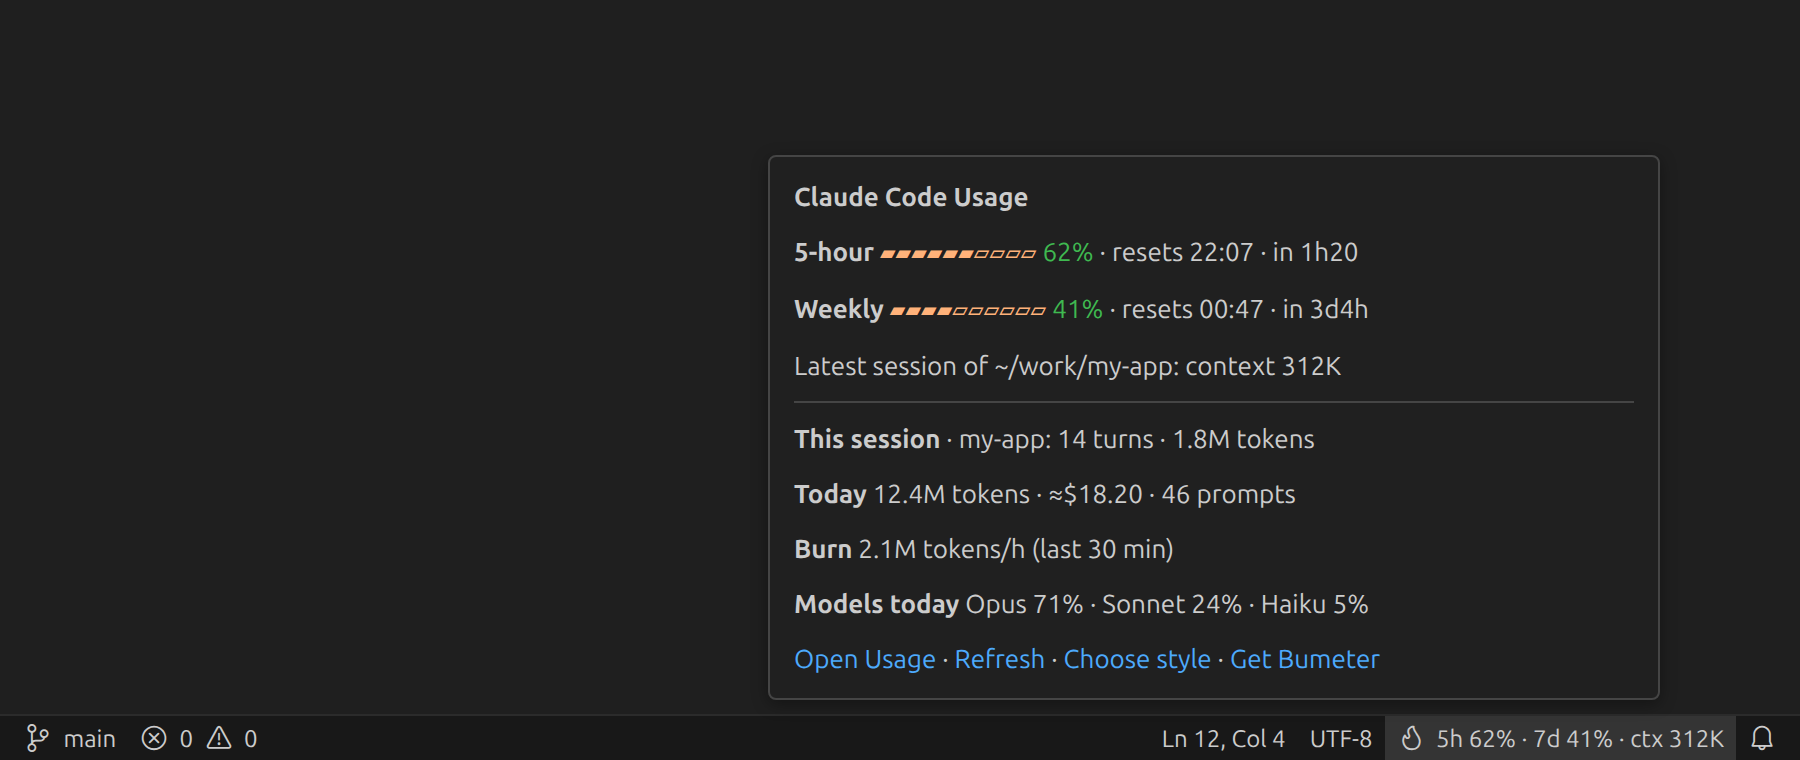
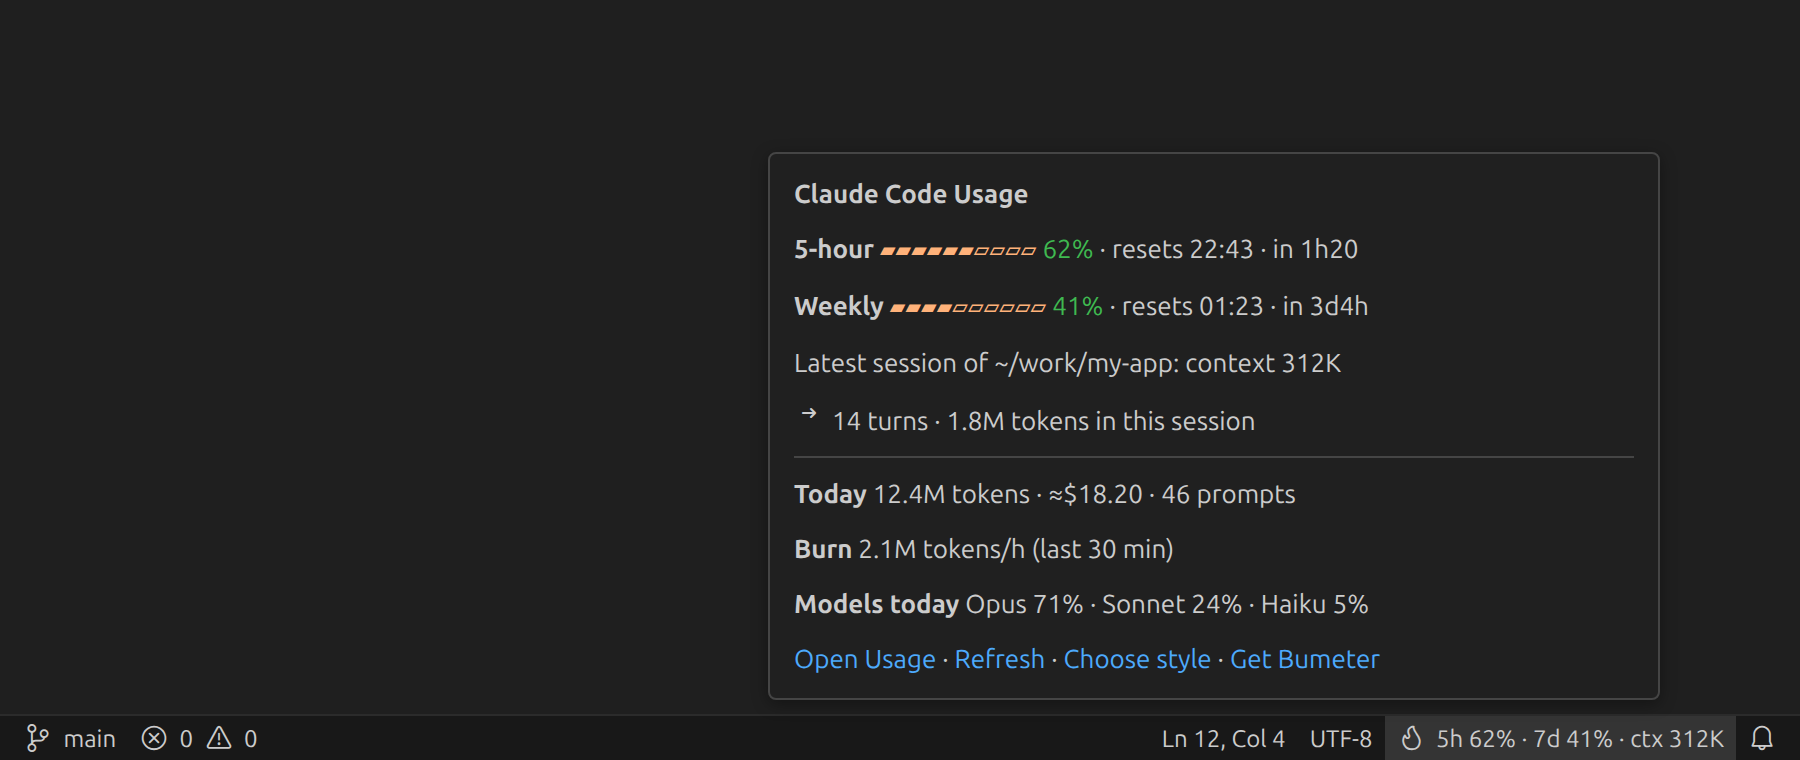
0.3.1: clearer Usage view and tooltip, lighter background reads
Weekly reset shows its day, quota bars line up, the session line follows the
kit's context line and only while current, small changes are not red, burn rate
labelled now, daily chart marks today with peak and average, narrow slices show
only their share; with the view closed, reads at most every 15 s and none while
full Bumeter hides the item.

diff --git a/webview/view.ts b/webview/view.ts
@@ -3,13 +3,19 @@
 import { fmtClock, fmtCountdown, fmtTokens } from '@bumeter/vscode-kit/format';
 import type { Forecast, Window as QuotaWindow } from '@bumeter/vscode-kit/status';
 import type { FromPage, PageState } from '../src/panel';
-import { chartDays, compare, RANGES, shortProject } from '../src/usage';
+import { chartDays, compare, isActive, RANGES, shortProject } from '../src/usage';
 import type { Part, Range, UsageData } from '../src/usage';
 import { h } from './dom';
-import { s } from './strings';
+import { s, weekday } from './strings';
 
 const level = (pct: number) => (pct >= 90 ? 'err' : pct >= 70 ? 'warn' : 'ok');
 const clamp = (pct: number) => `${Math.min(100, Math.max(0, pct))}%`;
+/** A clock time, with the weekday when it is not within the next 20 hours. */
+const when = (secs: number, nowSecs: number) => (secs - nowSecs > 20 * 3600 ? `${weekday(secs)} ${fmtClock(secs)}` : fmtClock(secs));
+/** A change smaller than this is drawn plain, not red or green. */
+const NOTABLE = 0.2;
+/** A part this narrow shows only its percentage; the name is in its title. */
+const NARROW = 15;
 
 function fill(pct: number): HTMLElement {
   const f = h('div', { class: 'fill' });
@@ -48,10 +54,11 @@ export function mountUsage(root: HTMLElement, o: { post(m: FromPage): void; now?
         h('span', { class: 'qname' }, name),
         h('div', { class: 'track' }, fill(pct)),
         h('b', { class: 'qpct' }, `${pct}%`),
-        h('span', { class: 'muted' }, s('resets', { time: fmtClock(w.resets_at), left: fmtCountdown(w.resets_at, now() / 1000) })),
-        f?.at_risk && f.hits_at != null ? h('span', { class: 'out' }, s('out', { time: fmtClock(f.hits_at) })) : null);
+        h('span', { class: 'muted' }, s('resets', { time: when(w.resets_at, now() / 1000), left: fmtCountdown(w.resets_at, now() / 1000) })),
+        f?.at_risk && f.hits_at != null ? h('span', { class: 'out' }, s('out', { time: when(f.hits_at, now() / 1000) })) : null);
     };
-    for (const r of [row(s('fiveHour'), l.five_hour, l.forecast_five_hour), row(s('weekly'), l.seven_day, l.forecast_seven_day)]) if (r) box.append(r);
+    // One grid for both rows, so their bars line up whatever the texts beside them.
+    box.append(h('div', { class: 'qgrid' }, [row(s('fiveHour'), l.five_hour, l.forecast_five_hour), row(s('weekly'), l.seven_day, l.forecast_seven_day)]));
     return box;
   }
 
@@ -61,7 +68,7 @@ export function mountUsage(root: HTMLElement, o: { post(m: FromPage): void; now?
   function cards(d: UsageData): HTMLElement {
     const c = d.days ? compare(d.days, d.range, now()) : null;
     const change = c?.change == null || Math.round(c.change * 100) === 0 ? null
-      : h('span', { class: c.change > 0 ? 'up' : 'down' }, s(c.change > 0 ? 'up' : 'down', { pct: Math.abs(Math.round(c.change * 100)) }));
+      : h('span', { class: Math.abs(c.change) < NOTABLE ? '' : c.change > 0 ? 'up' : 'down' }, s(c.change > 0 ? 'up' : 'down', { pct: Math.abs(Math.round(c.change * 100)) }));
     return h('section', { class: 'stats' },
       stat(s('tokens'), c ? fmtTokens(c.cur.tokens) : '—', change, 'flame'),
       stat(s('cost'), c ? `≈$${c.cur.cost.toFixed(2)}` : '—', s('apiPricing')),
@@ -70,8 +77,9 @@ export function mountUsage(root: HTMLElement, o: { post(m: FromPage): void; now?
   }
 
   function session(d: UsageData, project: string | null): HTMLElement {
-    const box = panel(project ? s('session', { project: shortProject(project) }) : s('sessionNone'));
     const latest = d.now?.latest;
+    const title = isActive(d) || !latest ? 'session' : 'sessionLatest';
+    const box = panel(project ? s(title, { project: shortProject(project) }) : s('sessionNone'));
     if (!latest || !d.now) {
       box.append(h('p', { class: 'muted' }, s('noSession')));
       return box;
@@ -87,23 +95,24 @@ export function mountUsage(root: HTMLElement, o: { post(m: FromPage): void; now?
   }
 
   function daily(d: UsageData): HTMLElement {
-    const box = panel(s('daily'));
     const days = d.days ? chartDays(d.days, d.range, now()) : null;
     const max = days ? Math.max(0, ...days.map((x) => x.tokens)) : 0;
+    const box = panel(s('daily'), days && max ? s('peak', { peak: fmtTokens(max), avg: fmtTokens(days.reduce((a, x) => a + x.tokens, 0) / days.length) }) : undefined);
     if (!days || !max) {
       box.append(h('p', { class: 'muted' }, d.days ? s('noActivity') : '—'));
       return box;
     }
+    const today = days[days.length - 1].day;
     box.append(h('div', { class: 'chart' }, days.map((x) => {
-      const col = h('div', { class: x.tokens === max ? 'col max' : 'col', title: s('dayTip', { day: x.day, tokens: fmtTokens(x.tokens), prompts: x.prompts }) });
-      col.style.height = x.tokens === max ? '100%' : `${Math.max(2, (x.tokens / max) * 100)}%`;
+      const col = h('div', { class: x.day === today ? 'col today' : 'col', title: s('dayTip', { day: x.day, tokens: fmtTokens(x.tokens), prompts: x.prompts }) });
+      col.style.height = `${Math.max(2, (x.tokens / max) * 100)}%`;
       return h('div', { class: 'slot' }, h('div', { class: 'bar' }, col), h('span', { class: 'dlabel' }, x.day.slice(8)));
     })));
     return box;
   }
 
   const stack = (parts: Part[]) => h('div', { class: 'stack' }, parts.map((p, i) => {
-    const seg = h('div', { class: `part p${Math.min(i, 3)}`, title: `${p.label} ${p.pct}%` }, `${p.label} ${p.pct}%`);
+    const seg = h('div', { class: `part p${Math.min(i, 3)}`, title: `${p.label} ${p.pct}%` }, p.pct < NARROW ? `${p.pct}%` : `${p.label} ${p.pct}%`);
     seg.style.flexGrow = String(Math.max(p.pct, 1));
     return seg;
   }));

diff --git a/webview/strings.ts b/webview/strings.ts
@@ -5,11 +5,11 @@ const EN = {
   waiting: 'Tracking is on. The 5h/7d numbers appear after Claude Code\'s next reply.',
   setupText: 'Set up tracking to see your 5-hour and weekly quota.', setup: 'Set up',
   fiveHour: '5-hour', weekly: 'Weekly', resets: 'resets {time} · in {left}', out: 'out ≈{time}',
-  tokens: 'Tokens', cost: 'Est. cost', apiPricing: 'API pricing', prompts: 'Prompts', sessions: '{n} sessions', burn: 'Burn rate', last30: 'last 30 min',
-  up: '{pct}% more than the previous period', down: '{pct}% less than the previous period',
-  session: 'This session · {project}', sessionNone: 'This session', noSession: 'No Claude Code session in this workspace yet.',
+  tokens: 'Tokens', cost: 'Est. cost', apiPricing: 'API pricing', prompts: 'Prompts', sessions: '{n} sessions', burn: 'Burn rate now', last30: 'last 30 min, any range',
+  up: '+{pct}% vs previous period', down: '−{pct}% vs previous period',
+  session: 'This session · {project}', sessionLatest: 'Latest session · {project}', sessionNone: 'This session', noSession: 'No Claude Code session in this workspace yet.',
   context: 'Context', sessionLine: '{tokens} tokens · {turns} turns', lastReply: 'last reply {ago}',
-  daily: 'Daily', dayTip: '{day}: {tokens} tokens · {prompts} prompts', noActivity: 'No Claude Code activity in this range yet.',
+  daily: 'Daily', peak: 'peak {peak} · average {avg}', dayTip: '{day}: {tokens} tokens · {prompts} prompts', noActivity: 'No Claude Code activity in this range yet.',
   where: 'Where the quota went', byModel: 'By model', byProject: 'By project', capped: 'From the latest 1000 sessions.',
   moreText: 'Want the prompts, skills and files behind it?', getFull: 'Get Bumeter',
 };
@@ -20,11 +20,11 @@ const VI: Record<Key, string> = {
   waiting: 'Đã bật theo dõi. Số 5h/7d hiện sau câu trả lời tiếp theo của Claude Code.',
   setupText: 'Bật theo dõi để xem hạn mức 5 giờ và hằng tuần.', setup: 'Bật',
   fiveHour: '5 giờ', weekly: 'Tuần', resets: 'reset {time} · còn {left}', out: 'cạn ≈{time}',
-  tokens: 'Token', cost: 'Chi phí ước tính', apiPricing: 'theo giá API', prompts: 'Prompt', sessions: '{n} phiên', burn: 'Tốc độ', last30: '30 phút qua',
-  up: 'nhiều hơn kỳ trước {pct}%', down: 'ít hơn kỳ trước {pct}%',
-  session: 'Phiên này · {project}', sessionNone: 'Phiên này', noSession: 'Chưa có phiên Claude Code nào trong workspace này.',
+  tokens: 'Token', cost: 'Chi phí ước tính', apiPricing: 'theo giá API', prompts: 'Prompt', sessions: '{n} phiên', burn: 'Tốc độ hiện tại', last30: '30 phút qua, mọi khoảng',
+  up: '+{pct}% so với kỳ trước', down: '−{pct}% so với kỳ trước',
+  session: 'Phiên này · {project}', sessionLatest: 'Phiên gần nhất · {project}', sessionNone: 'Phiên này', noSession: 'Chưa có phiên Claude Code nào trong workspace này.',
   context: 'Context', sessionLine: '{tokens} token · {turns} lượt', lastReply: 'trả lời cuối {ago}',
-  daily: 'Theo ngày', dayTip: '{day}: {tokens} token · {prompts} prompt', noActivity: 'Chưa có hoạt động Claude Code trong khoảng này.',
+  daily: 'Theo ngày', peak: 'cao nhất {peak} · trung bình {avg}', dayTip: '{day}: {tokens} token · {prompts} prompt', noActivity: 'Chưa có hoạt động Claude Code trong khoảng này.',
   where: 'Hạn mức đi đâu', byModel: 'Theo model', byProject: 'Theo dự án', capped: 'Tính trên 1000 phiên gần nhất.',
   moreText: 'Muốn xem prompt, skill và file đứng sau những con số này?', getFull: 'Cài Bumeter',
 };
@@ -33,5 +33,7 @@ let lang: 'en' | 'vi' = 'en';
 export const setLang = (l: string): void => {
   lang = l.toLowerCase().startsWith('vi') ? 'vi' : 'en';
 };
+/** Short weekday of a Unix time, in the page's language. */
+export const weekday = (secs: number): string => new Date(secs * 1000).toLocaleDateString(lang === 'vi' ? 'vi-VN' : 'en-US', { weekday: 'short' });
 export const s = (k: Key, p: Record<string, string | number> = {}): string =>
   (lang === 'vi' ? VI : EN)[k].replace(/\{(\w+)\}/g, (_, n: string) => String(p[n] ?? ''));

diff --git a/test/usage-data.test.ts b/test/usage-data.test.ts
@@ -1,5 +1,5 @@
 import { describe, expect, it } from 'vitest';
-import { burnRate, chartDays, compare, dayKey, isRange, lastDays, modelParts, projectParts, rangeStart, shortProject, sum, fetchUsage, tooltipExtra } from '../src/usage';
+import { burnRate, chartDays, compare, dayKey, isRange, lastDays, modelParts, projectParts, rangeStart, shortProject, sum, fetchUsage, isActive, tooltipExtra } from '../src/usage';
 import type { DayStat, PromptRow, UsageData } from '../src/usage';
 
 // Noon local time, so day boundaries do not depend on the machine's zone.
@@ -136,18 +136,25 @@ describe('tooltipExtra', () => {
     days: [day(0, 12_400_000, 46, 18.2)], burn: 2_100_000, modelsToday: [{ key: 'opus', label: 'Opus', pct: 71, tokens: 71 }, { key: 'sonnet', label: 'Sonnet', pct: 29, tokens: 29 }],
     models: null, projects: null };
 
-  it('session, today, burn and models after a rule', () => {
+  it('the session under the kit context line, then today, burn and models after a rule', () => {
     expect(tooltipExtra(base, 'en', '/w/my-app')).toBe([
+      '$(arrow-small-right) 14 turns · 1.8M tokens in this session',
       '---',
-      '**This session** · my-app: 14 turns · 1.8M tokens',
       '**Today** 12.4M tokens · ≈$18.20 · 46 prompts',
       '**Burn** 2.1M tokens/h (last 30 min)',
       '**Models today** Opus 71% · Sonnet 29%',
     ].join('\n\n'));
   });
 
-  it('escapes a project name for the HTML tooltip', () => {
-    expect(tooltipExtra(base, 'en', '/w/a<b')).toContain('**This session** · a&lt;b: 14 turns · 1.8M tokens');
+  it('escapes a model name for the HTML tooltip', () => {
+    expect(tooltipExtra({ ...base, modelsToday: [{ key: 'x', label: 'a<b', pct: 100, tokens: 1 }] }, 'en', '/w/my-app')).toContain('a&lt;b 100%');
+  });
+
+  it('no session line once the session is older than 30 minutes, as the kit drops its context line', () => {
+    const old = { ...base, now: { ...ANSWERS.project_now, latest: { ...ANSWERS.project_now.latest, ts: new Date(NOW - 31 * 60_000).toISOString() } } };
+    expect(tooltipExtra(old, 'en', '/w/my-app')).not.toContain('this session');
+    expect(isActive(old)).toBe(false);
+    expect(isActive(base)).toBe(true);
   });
 
   it('leaves out what it does not know; nothing at all is empty', () => {

diff --git a/test/webview/view.test.ts b/test/webview/view.test.ts
@@ -45,12 +45,31 @@ describe('Usage page', () => {
     expect(text()).toContain('out ≈');
     expect(root.querySelector('.qrow.warn')).not.toBeNull();
     expect([...root.querySelectorAll('.stat .big')].map((e) => e.textContent)).toEqual(['12.4M', '≈$18.20', '46', '2.1M/h']);
-    expect(text()).toContain('36% more than the previous period');
+    expect(text()).toContain('+36% vs previous period');
+    expect(root.querySelector('.stat .sub span')!.className).toBe('up');
+    expect(text()).toMatch(/resets [A-Z][a-z]{2} \d\d:\d\d · in 3d/);
+    expect(text()).toMatch(/resets \d\d:\d\d · in 1h30/);
+    expect(root.querySelectorAll('.qgrid > .qrow')).toHaveLength(2);
     expect(text()).toContain('This session · my-app');
     expect(text()).toContain('1.8M tokens · 14 turns · last reply 1 min ago');
     expect(root.querySelectorAll('.chart .col')).toHaveLength(7);
-    expect(root.querySelector<HTMLElement>('.chart .col.max')!.style.height).toBe('100%');
+    expect(root.querySelector<HTMLElement>('.chart .slot:last-child .col')!.className).toBe('col today');
+    expect(text()).toContain('peak 20.0M');
     expect([...root.querySelectorAll('.stack .part')].map((e) => e.textContent)).toEqual(['Opus 71%', 'Sonnet 29%', 'my-app 100%']);
+  });
+
+  it('a small change is plain; an old session is the latest, not this one; a narrow part shows only its share', () => {
+    const { root, text } = mount({}, {
+      days: [day(0, 10_500_000), day(1, 10_000_000)],
+      now: { latest: { session_id: 's1', ts: new Date(NOW - 3 * 3_600_000).toISOString(), context: 312_000 }, context_threshold: 400_000 },
+      models: [{ key: 'opus', label: 'Opus', pct: 95, tokens: 95 }, { key: 'haiku', label: 'Haiku', pct: 5, tokens: 5 }],
+    });
+    expect(text()).toContain('+5% vs previous period');
+    expect(root.querySelector('.stat .sub span')!.className).toBe('');
+    expect(text()).toContain('Latest session · my-app');
+    const haiku = [...root.querySelectorAll<HTMLElement>('.stack .part')][1];
+    expect(haiku.textContent).toBe('5%');
+    expect(haiku.title).toBe('Haiku 5%');
   });
 
   it('range buttons ask the extension; Bumeter link and setup too', () => {

diff --git a/webview/style.css b/webview/style.css
@@ -30,7 +30,9 @@ body { margin: 0; padding: 0; background: var(--bg); color: var(--ink); font: 13
 .ph h2 { margin: 0; font-size: 13px; font-weight: 600; color: var(--ink2); }
 
 .qrow { display: grid; grid-template-columns: 70px 1fr auto auto auto; gap: 12px; align-items: center; padding: 7px 0; border-top: 1px solid var(--line); }
-.ph + .qrow { border-top: 0; }
+.ph + .qrow, .qgrid > .qrow:first-child { border-top: 0; }
+.qgrid { display: grid; grid-template-columns: 70px 1fr auto auto auto; column-gap: 12px; }
+.qgrid > .qrow { grid-column: 1 / -1; grid-template-columns: subgrid; }
 .qname { font-weight: 600; }
 .track { height: 4px; border-radius: 2px; background: var(--sunk); overflow: hidden; }
 .fill { height: 100%; border-radius: 2px; background: var(--grn); }
@@ -56,7 +58,7 @@ body { margin: 0; padding: 0; background: var(--bg); color: var(--ink); font: 13
 .slot { flex: 1; display: grid; grid-template-rows: 1fr auto; height: 100%; min-width: 0; }
 .bar { display: flex; align-items: flex-end; }
 .col { width: 100%; border-radius: 4px 4px 0 0; background: color-mix(in srgb, var(--acc) 45%, transparent); }
-.col.max { background: var(--acc); }
+.col.today { background: var(--acc); }
 .dlabel { text-align: center; font-size: 10px; color: var(--ink3); }
 
 .wrow { display: grid; grid-template-columns: 110px 1fr; gap: 12px; align-items: center; padding: 5px 0; }
@@ -71,5 +73,5 @@ body { margin: 0; padding: 0; background: var(--bg); color: var(--ink); font: 13
 .foot { text-align: center; color: var(--ink3); }
 .link { border: 0; background: none; color: var(--acc); font: inherit; font-weight: 600; cursor: pointer; padding: 0; }
 
-@media (max-width: 720px) { .stats { grid-template-columns: repeat(2, 1fr); } .qrow { grid-template-columns: 60px 1fr auto; } .qrow > .muted, .out { grid-column: 2 / -1; } }
+@media (max-width: 720px) { .stats { grid-template-columns: repeat(2, 1fr); } .qrow, .qgrid { grid-template-columns: 60px 1fr auto; } .qrow > .muted, .out { grid-column: 2 / -1; } }
 @media (max-width: 420px) { .stats { grid-template-columns: 1fr; } }

diff --git a/src/usage.ts b/src/usage.ts
@@ -153,17 +153,23 @@ export async function fetchUsage(rpc: Rpc, project: string | null, range: Range,
 /** The tooltip allows HTML, so a project or model name must not break it. */
 const esc = (s: string): string => s.replace(/&/g, '&amp;').replace(/</g, '&lt;');
 
-/** The tooltip's lines under the quota (the kit already draws the quota and the context). */
+/** A session counts as "this" one while its last reply is this recent: the kit's context line uses the same 30 minutes. */
+export const ACTIVE_MS = 30 * 60_000;
+export const isActive = (d: UsageData): boolean => {
+  const ts = d.now?.latest?.ts;
+  return !!ts && d.at - Date.parse(ts) <= ACTIVE_MS;
+};
+
+/** The tooltip's lines under the quota (the kit already draws the quota and the context). The session line
+ * follows the kit's context line, so it comes before the rule. */
 export function tooltipExtra(d: UsageData, lang: Lang, project: string | null): string {
   const lines: string[] = [];
-  if (project && d.now?.latest && d.session) {
-    lines.push(t(lang, 'tipSession', { project: esc(shortProject(project)), turns: String(d.session.calls), tokens: fmtTokens(d.session.weighted) }));
-  }
   if (d.days) {
     const c = sum(lastDays(d.days, 1, d.at));
     lines.push(t(lang, 'tipToday', { tokens: fmtTokens(c.tokens), cost: c.cost.toFixed(2), prompts: String(c.prompts) }));
   }
   if (d.burn) lines.push(t(lang, 'tipBurn', { rate: fmtTokens(d.burn) }));
   if (d.modelsToday?.length) lines.push(t(lang, 'tipModels', { list: d.modelsToday.map((p) => `${esc(p.label)} ${p.pct}%`).join(' · ') }));
-  return lines.length ? ['---', ...lines].join('\n\n') : '';
+  const head = project && d.session && isActive(d) ? [t(lang, 'tipSession', { turns: String(d.session.calls), tokens: fmtTokens(d.session.weighted) })] : [];
+  return [...head, ...(lines.length ? ['---', ...lines] : [])].join('\n\n');
 }

diff --git a/src/strings.ts b/src/strings.ts
@@ -13,7 +13,7 @@ export const t = localize({
     chooseStyle: 'Chọn style', styleTitle: 'Claude Code Usage: chọn style status bar (↑ ↓ để xem trước)', custom: 'Tự viết…',
     customDesc: 'Template của riêng bạn', customPrompt: 'Ví dụ: $(flame) {5h} | {7d} | ctx {ctxPct}. Biến: {vars}',
     current: 'đang dùng',
-    tipSession: '**Phiên này** · {project}: {turns} lượt · {tokens} token', tipToday: '**Hôm nay** {tokens} token · ≈${cost} · {prompts} prompt',
+    tipSession: '$(arrow-small-right) {turns} lượt · {tokens} token trong phiên này', tipToday: '**Hôm nay** {tokens} token · ≈${cost} · {prompts} prompt',
     tipBurn: '**Tốc độ** {rate} token/giờ (30 phút qua)', tipModels: '**Model hôm nay** {list}', openUsage: 'Mở Usage', panelTitle: 'Claude Code Usage',
   },
   en: {
@@ -27,7 +27,7 @@ export const t = localize({
     chooseStyle: 'Choose style', styleTitle: 'Claude Code Usage: status bar style (↑ ↓ to preview)', custom: 'Custom…',
     customDesc: 'Your own template', customPrompt: 'For example: $(flame) {5h} | {7d} | ctx {ctxPct}. Values: {vars}',
     current: 'current',
-    tipSession: '**This session** · {project}: {turns} turns · {tokens} tokens', tipToday: '**Today** {tokens} tokens · ≈${cost} · {prompts} prompts',
+    tipSession: '$(arrow-small-right) {turns} turns · {tokens} tokens in this session', tipToday: '**Today** {tokens} tokens · ≈${cost} · {prompts} prompts',
     tipBurn: '**Burn** {rate} tokens/h (last 30 min)', tipModels: '**Models today** {list}', openUsage: 'Open Usage', panelTitle: 'Claude Code Usage',
   },
 });

diff --git a/src/extension.ts b/src/extension.ts
@@ -103,6 +103,8 @@ export function activate(ctx: vscode.ExtensionContext): void {
     },
   );
   const load = coalesce(reload, 2_000);
+  // With the page closed only the tooltip needs these numbers: read them less often.
+  const loadSlow = coalesce(reload, 15_000);
   const panel = new UsagePanel(ctx.extensionUri, lang, {
     ready: push,
     range: (r) => {
@@ -128,7 +130,9 @@ export function activate(ctx: vscode.ExtensionContext): void {
   };
   const full = () => vscode.extensions.getExtension(FULL_ID) !== undefined;
   status.setHidden(full());
-  const poll = setInterval(load, 60_000);
+  /** Claude Code wrote something: read again, often while the page is open, not at all while full Bumeter hides our item. */
+  const wake = () => (panel.isOpen ? load() : full() ? undefined : loadSlow());
+  const poll = setInterval(wake, 60_000);
 
   ctx.subscriptions.push(
     status,
@@ -173,7 +177,7 @@ export function activate(ctx: vscode.ExtensionContext): void {
       if (e.event === 'scanning') status.scanning();
       else if (e.event === 'host' || e.event === 'data_changed') {
         void status.refresh();
-        load();
+        wake();
       }
     }) as unknown as vscode.Disposable,
   );

diff --git a/CHANGELOG.md b/CHANGELOG.md
@@ -1,5 +1,14 @@
 # Changelog
 
+## 0.3.1
+
+- The weekly reset shows its day ("resets Thu 01:23"), and the quota bars line up.
+- The tooltip puts this session's turns and tokens right under its context line, and only while the session is current (30 minutes, like the context line). The Usage view calls an older one "Latest session".
+- A small change against the previous period ("+5% vs previous period") is no longer red: red or green starts at 20%.
+- Burn rate is labelled "now": it is always the last 30 minutes, whatever the range.
+- The daily chart marks today and shows the peak and average day; a narrow model or project slice shows only its share (the name is on hover).
+- Less work in the background: with the Usage view closed, numbers are read at most every 15 seconds, and not at all while full Bumeter hides the item.
+
 ## 0.3.0
 
 - **Usage view**: click the status bar item (or run **Open Usage**) for the quota and its forecast, tokens, estimated cost, prompts and burn rate for Today, 7 or 30 days, this session, a daily chart, and which models and projects used the quota. Bumeter's Overview look, light and dark.
